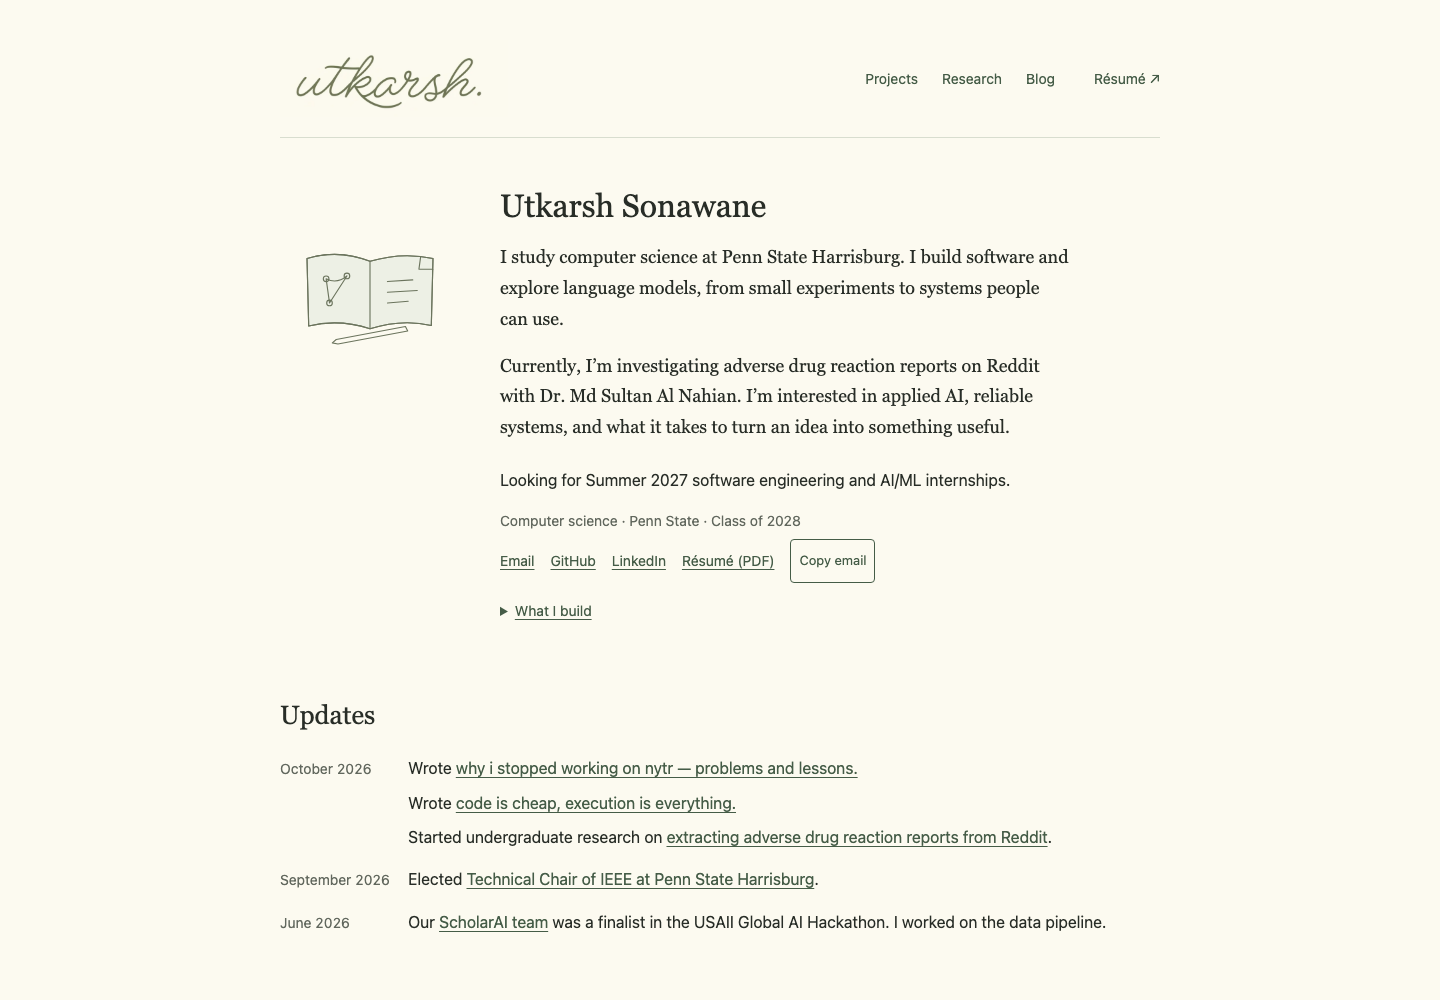
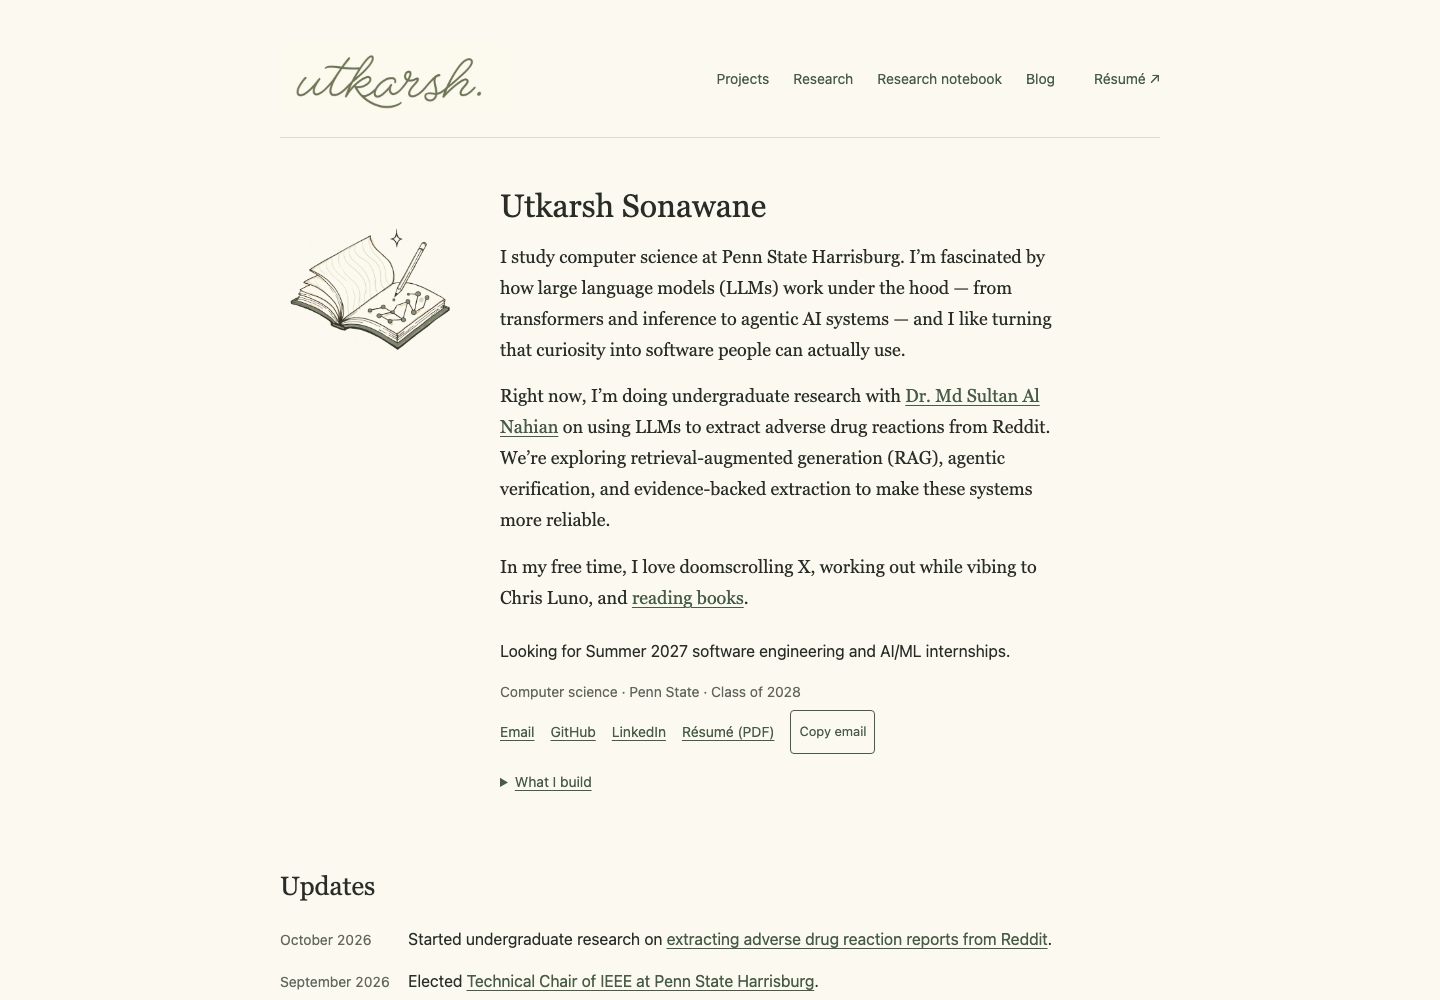
feat: integrate seven approved editorial illustrations
- Preserve original PNG sources in docs/portfolio-v2/assets/illustrations/ outside the deployed site
- Generate optimized, Retina-crisp WebP assets in images/illustrations/ with #FCFAF0 paper background neutralization and outer alpha transparency
- Retain code-authored SVG assets in images/illustrations/ for rollback
- Integrate illustration references in index.html (notebook, nytr-v2, clage, talks-v2, devvy, evidence)
- Integrate research-notebook illustration on /notebook/ page with responsive layout
- Update deploy workflow html-validate command to avoid runner-side npm arborizer issue
- Add verification screenshots and update asset documentation

diff --git a/index.html b/index.html
@@ -55,9 +55,9 @@
         <img
           alt=""
           class="illustration"
-          height="240"
-          src="/images/illustrations/notebook.svg"
-          width="320">
+          height="435"
+          src="/images/illustrations/notebook.webp"
+          width="550">
         <div class="bio">
           <h1>Utkarsh Sonawane</h1>
           <p>
@@ -140,10 +140,10 @@
           <img
             alt=""
             class="illustration"
-            height="240"
+            height="433"
             loading="lazy"
-            src="/images/illustrations/nytr.svg"
-            width="320">
+            src="/images/illustrations/nytr-v2.webp"
+            width="645">
           <div>
             <h3><a href="/projects/nytr/">Nytr</a></h3>
             <p>
@@ -194,10 +194,10 @@
           <img
             alt=""
             class="illustration"
-            height="240"
+            height="308"
             loading="lazy"
-            src="/images/illustrations/clage.svg"
-            width="320">
+            src="/images/illustrations/clage.webp"
+            width="386">
           <div>
             <h3><a href="/projects/clage/">Clage</a></h3>
             <p>
@@ -240,10 +240,10 @@
           <img
             alt=""
             class="illustration"
-            height="240"
+            height="371"
             loading="lazy"
-            src="/images/illustrations/talks.svg"
-            width="320">
+            src="/images/illustrations/talks-v2.webp"
+            width="486">
           <div>
             <h3><a href="/projects/talks/">Talks</a></h3>
             <p>
@@ -283,10 +283,10 @@
           <img
             alt=""
             class="illustration"
-            height="240"
+            height="357"
             loading="lazy"
-            src="/images/illustrations/devvy.svg"
-            width="320">
+            src="/images/illustrations/devvy.webp"
+            width="464">
           <div>
             <h3><a href="/projects/devvy/">Devvy</a></h3>
             <p>
@@ -422,10 +422,10 @@
           <img
             alt=""
             class="illustration"
-            height="240"
+            height="525"
             loading="lazy"
-            src="/images/illustrations/evidence.svg"
-            width="320">
+            src="/images/illustrations/evidence.webp"
+            width="506">
           <div>
             <h3>Extracting adverse drug reaction reports from Reddit</h3>
             <p class="metadata">

diff --git a/notebook/index.html b/notebook/index.html
@@ -48,12 +48,22 @@
       </nav>
     </header>
     <main class="container writing-index" id="content">
-      <h1>Research notebook</h1>
-      <p class="index-intro">
-        A place for technical notes on language models, retrieval,
-        inference, and evaluation. I’ll publish entries here
-        when they’re ready to share.
-      </p>
+      <div class="notebook-head">
+        <div>
+          <h1>Research notebook</h1>
+          <p class="index-intro">
+            A place for technical notes on language models, retrieval,
+            inference, and evaluation. I’ll publish entries here
+            when they’re ready to share.
+          </p>
+        </div>
+        <img
+          alt=""
+          class="illustration notebook-illustration"
+          height="447"
+          src="/images/illustrations/research-notebook.webp"
+          width="550">
+      </div>
       <p class="notebook-empty">No entries published yet.</p>
     </main>
     <footer class="site-footer container">

diff --git a/styles.css b/styles.css
@@ -448,6 +448,20 @@ main.container {
 .writing-index {
   min-height: 48vh;
 }
+.notebook-head {
+  display: grid;
+  grid-template-columns: 1fr 140px;
+  gap: 32px;
+  align-items: start;
+  margin-bottom: 32px;
+}
+.notebook-head .index-intro {
+  margin-bottom: 0;
+}
+.notebook-illustration {
+  width: 140px;
+  margin-top: 8px;
+}
 .blog-post-page main.container {
   max-width: 640px;
 }
@@ -881,6 +895,17 @@ main.container {
     grid-column: 1;
     grid-row: 2;
     width: 80px;
+  }
+  .notebook-head {
+    display: flex;
+    flex-direction: column;
+    gap: 16px;
+    margin-bottom: 24px;
+  }
+  .notebook-illustration {
+    order: 2;
+    width: 112px;
+    margin: 0;
   }
   .exp-header {
     display: block;

diff --git a/docs/portfolio-v2/IMPLEMENTATION-NOTES.md b/docs/portfolio-v2/IMPLEMENTATION-NOTES.md
@@ -84,3 +84,19 @@ Rendered the October 13 article in Chromium at 1440px and 390px and inspected th
 ## Editorial boundaries
 
 The research is in progress; no paper, venue, dataset release, model ranking, clinical validation or unsupported publication link has been added. Project numbers remain baseline claims, including the Nytr historical case study and paused development status. Any further factual refresh or new source insertion needs a separate editorial decision.
+
+## Editorial illustration integration — October 19, 2026
+
+Integrated the seven approved editorial illustrations into Portfolio V2:
+- Mapping:
+  - `notebook.png` → Homepage introduction (`images/illustrations/notebook.webp`)
+  - `nytr-v2.png` → Nytr project (`images/illustrations/nytr-v2.webp`, supersedes v1)
+  - `clage.png` → Clage project (`images/illustrations/clage.webp`)
+  - `talks-v2.png` → Talks project (`images/illustrations/talks-v2.webp`, supersedes v1)
+  - `devvy.png` → Devvy project (`images/illustrations/devvy.webp`)
+  - `evidence.png` → Homepage Research section (`images/illustrations/evidence.webp`)
+  - `research-notebook.png` → `/notebook/` page (`images/illustrations/research-notebook.webp`)
+- Production assets generated as optimized WebP with `#FCFAF0` background neutralization, outer alpha transparency, and safe padding preserving all fine strokes, color washes, internal paper details, and soft cast shadows.
+- All original PNG source masters are preserved byte-for-byte in `docs/portfolio-v2/assets/illustrations/` outside the deployed site.
+- Original SVG illustration files remain in `images/illustrations/` for rollback.
+- Visual integration verified at 1440px and 390px; HTML validation, 361 internal references across 13 pages, RSS feed validation, and content preservation tests pass. CI workflow updated to use `--package=html-validate@10` to avoid runner-side arborizer errors.

diff --git a/docs/portfolio-v2/ASSETS.md b/docs/portfolio-v2/ASSETS.md
@@ -51,3 +51,16 @@ Original wordmark is supplied and present. All new illustration and favicon path
 - All six `images/illustrations/*.svg`: original code-authored paths following the compositions above, each under 1 KiB. No external assets, fonts, scripts, logos or measured-data claims.
 - `favicon.svg`: the exact specified original lowercase-u path and separate dot. PNGs rendered from this SVG with Sharp; ICO contains 16/32/48px frames; Apple icon is opaque cream at 180×180. Reviewed on light and dark backgrounds at production sizes.
 - Existing product screenshots, videos, portrait, social source icons, Open Graph image and résumé are unchanged.
+
+## Approved editorial illustration integration — October 19, 2026
+
+- Master PNG sources preserved outside the deployed website in `docs/portfolio-v2/assets/illustrations/`:
+  - `notebook.png` (hero introduction)
+  - `nytr-v2.png` (Nytr project; supersedes original version)
+  - `clage.png` (Clage project)
+  - `talks-v2.png` (Talks project; supersedes original version)
+  - `devvy.png` (Devvy project)
+  - `evidence.png` (homepage Research section)
+  - `research-notebook.png` (`/notebook/` page)
+- Production WebP assets in `images/illustrations/` (`*.webp`), cropped with safe padding, background neutralized to `#FCFAF0` (`[252, 250, 240]`) with outer alpha transparency. Fine strokes, color fills, paper details, and soft cast shadows are preserved.
+- Original SVG assets (`clage.svg`, `devvy.svg`, `evidence.svg`, `notebook.svg`, `nytr.svg`, `talks.svg`) remain in `images/illustrations/` for rollback.
